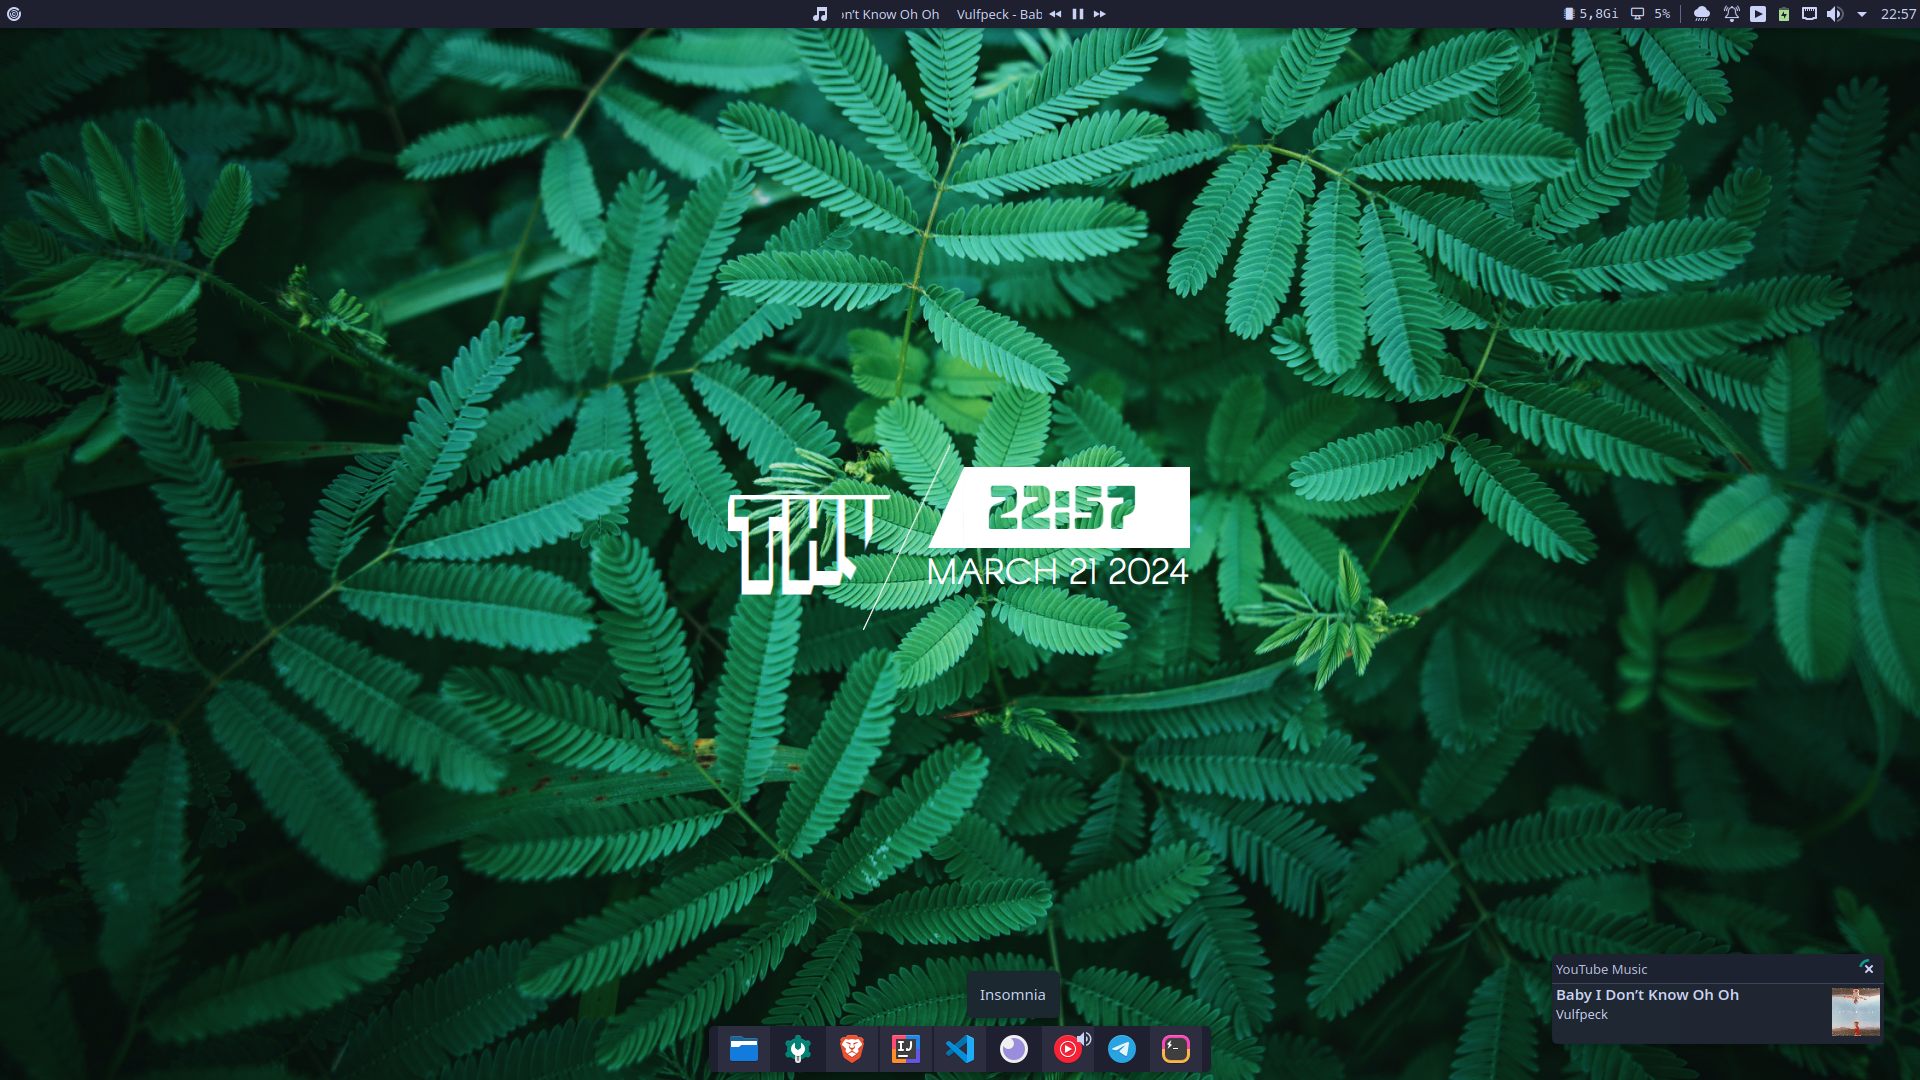
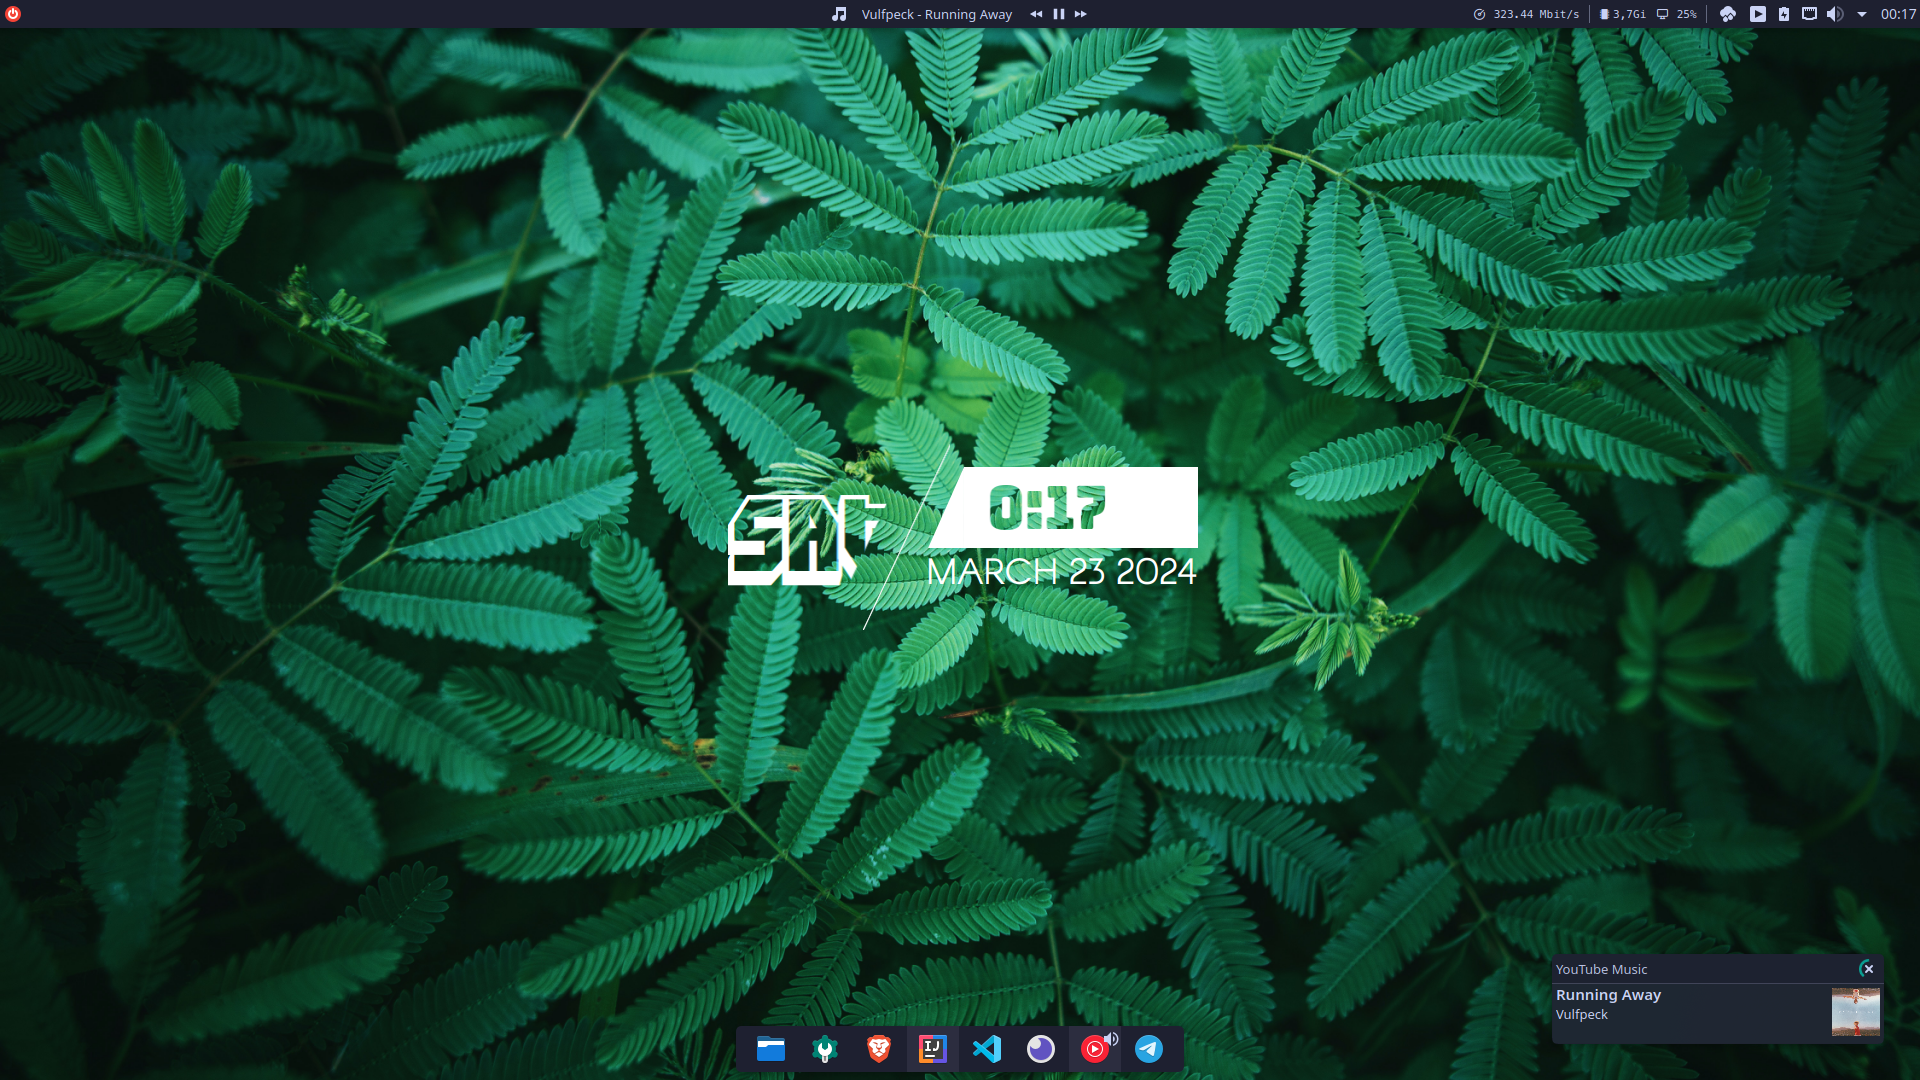
Atualização do README.md

diff --git a/README.md b/README.md
@@ -3,3 +3,18 @@
 ![1](Imagens/1.png)
 
 ![2](Imagens/2.png)
+
+## Plasmoids adicionais utilizados
+
+* [Shutdown or Switch](https://store.kde.org/p/1288430)
+* [plasmusic-toolbar](https://store.kde.org/p/2128143)
+* [Vector Clock Plasma6](https://store.kde.org/p/2137726)
+* [Separator Line](https://store.kde.org/p/2136852)
+* [Condensed Weather [Plasma 6]](https://store.kde.org/p/2137197)
+* [Command Output](https://store.kde.org/p/2136636/)
+
+### Comandos do plasmoid Command Output
+
+* Velocidade Internet: `echo "  $(speedtest --no-upload --simple | awk 'NR==2{print$2" "$3}')"`
+* Uso de memória: `free -h | awk '/Mem/{printf(" %s "), $3}'`
+* Uso de CPU: `echo "  "$[100-$(vmstat 1 2|tail -1|awk '{print $15}')]"%"`
